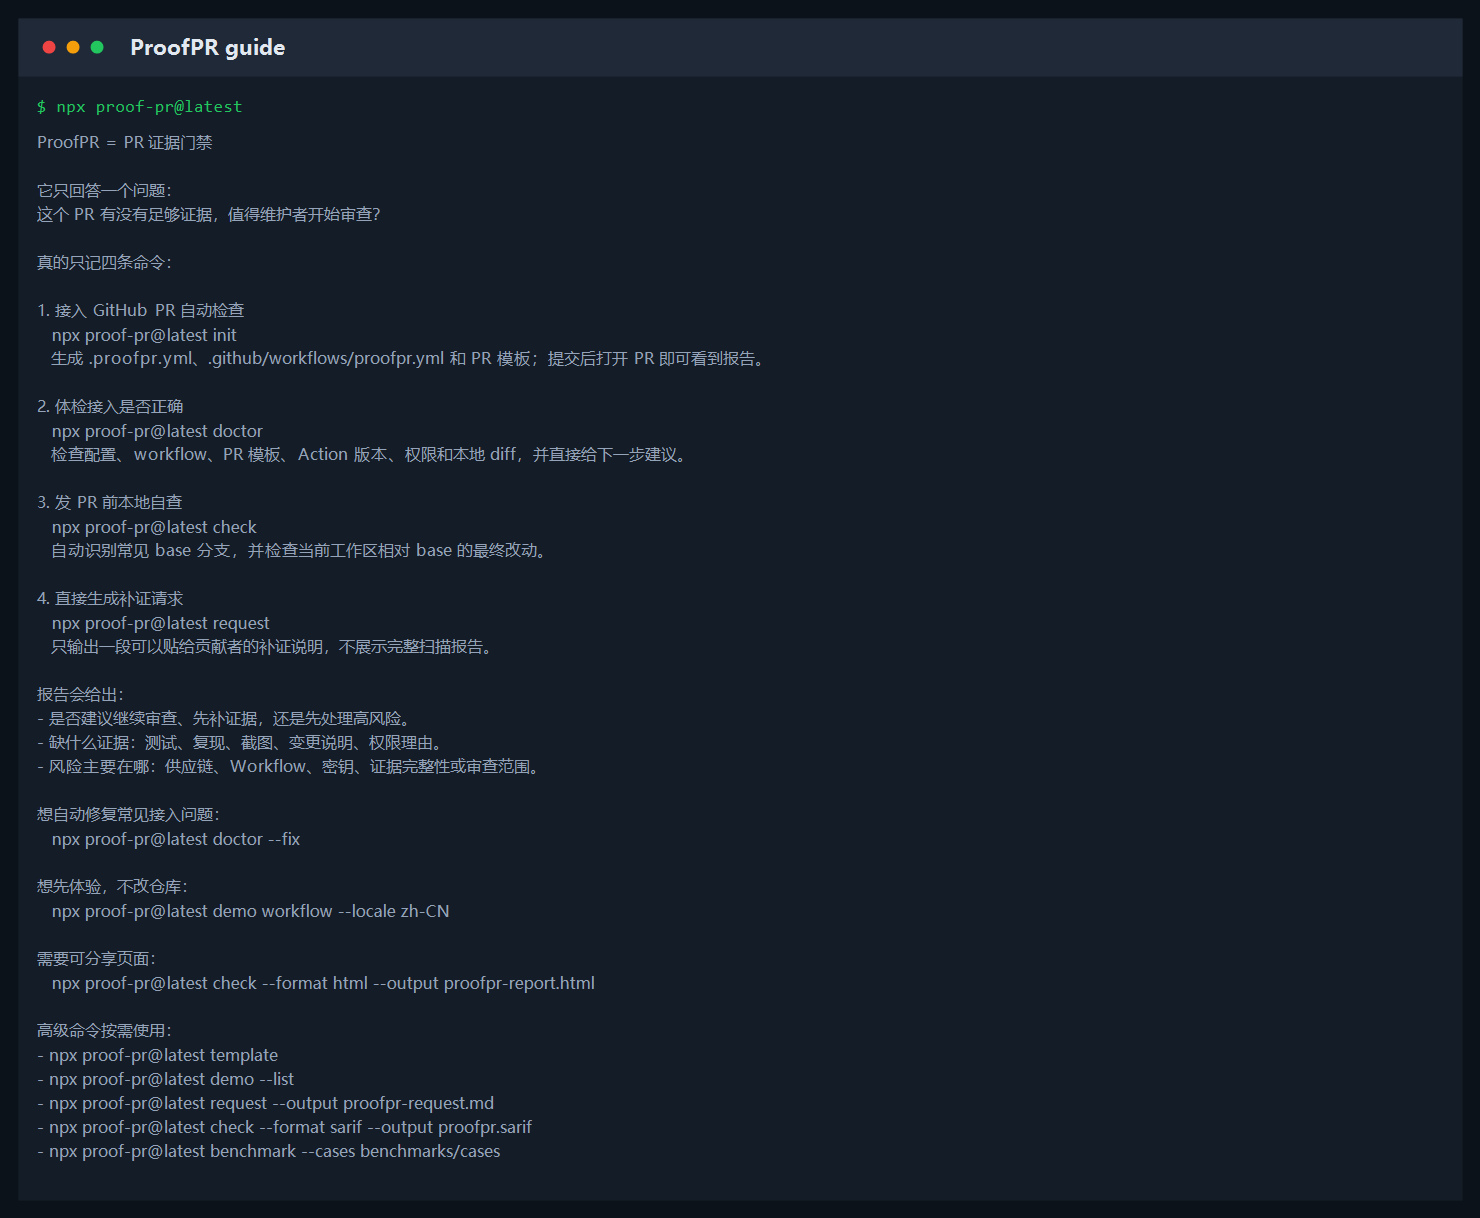
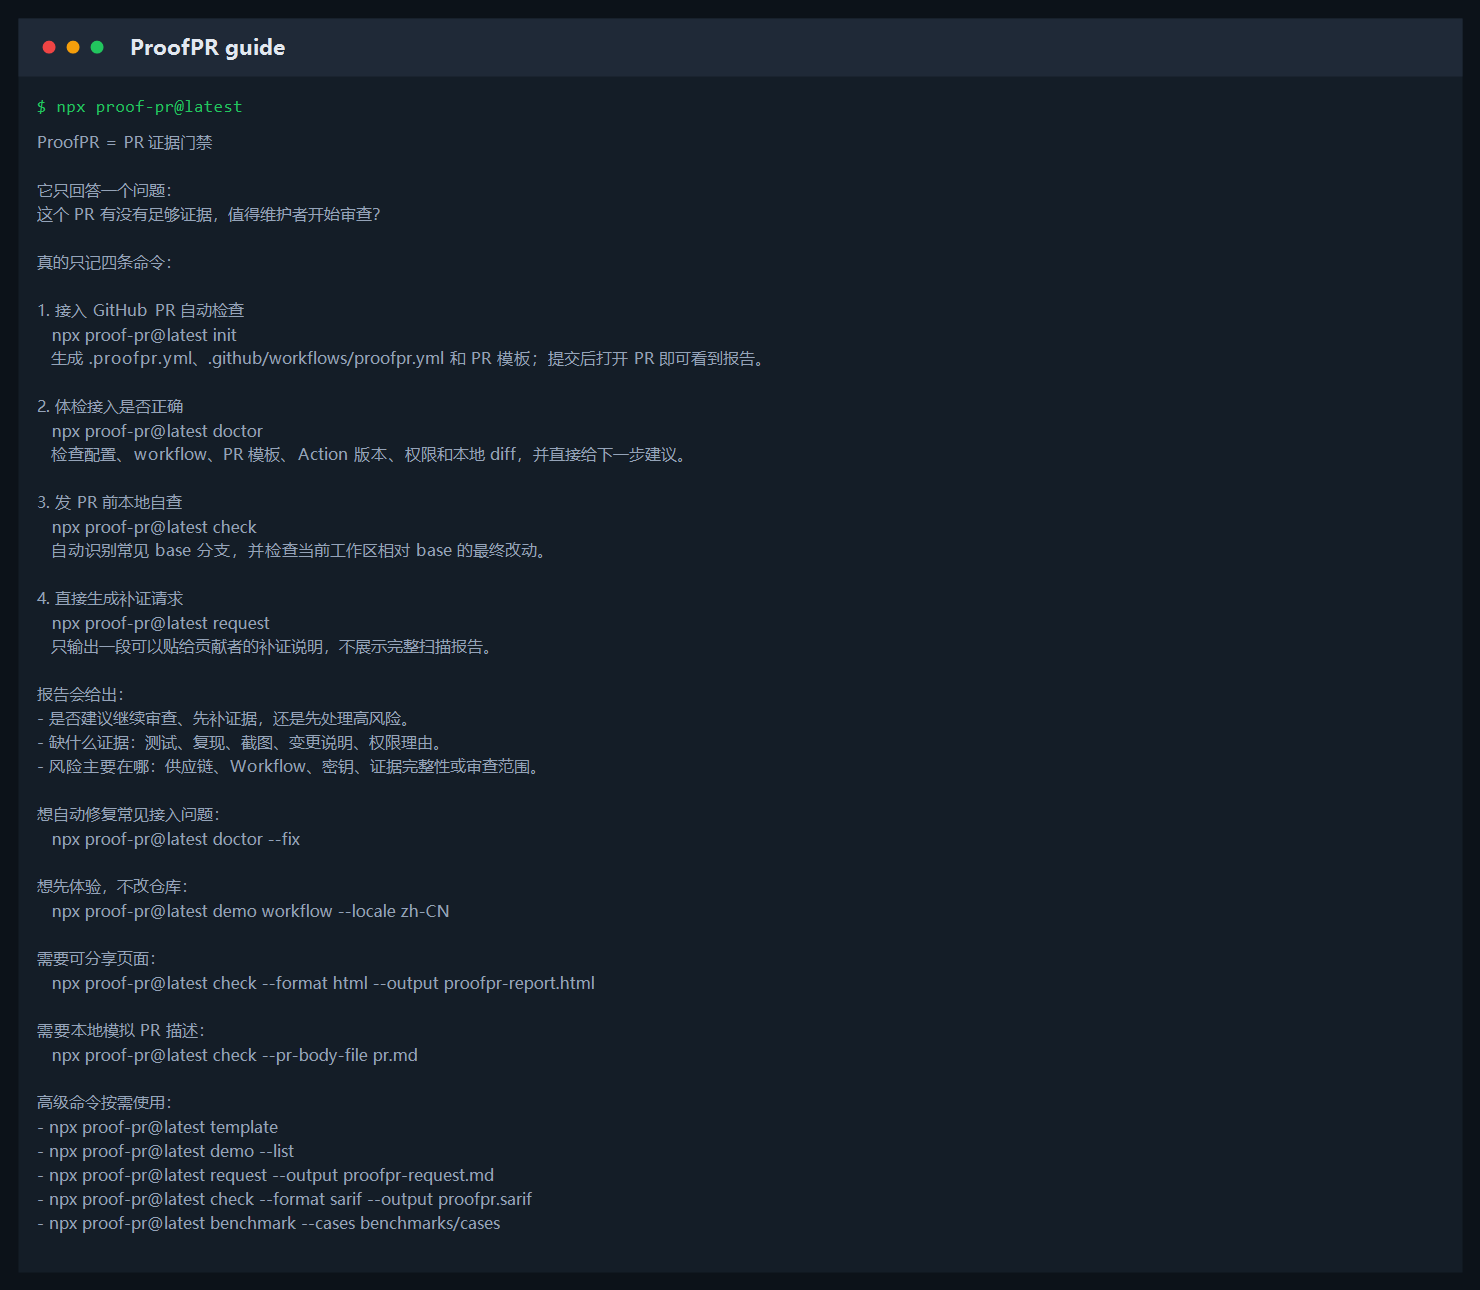
feat: surface pr body file workflow

Changed region(s): [[0.0, 0.0312, 0.5284, 0.9672]]

diff --git a/packages/cli/src/index.ts b/packages/cli/src/index.ts
@@ -23,7 +23,7 @@ import {
 } from "@proof-pr/core";
 
 const execFileAsync = promisify(execFile);
-const CLI_VERSION = "0.1.49";
+const CLI_VERSION = "0.1.50";
 
 type OutputFormat = "json" | "markdown" | "sarif" | "html";
 type FailLevel = RiskLevel | "never";
@@ -682,6 +682,9 @@ function renderGuide(): string {
 需要可分享页面：
    npx proof-pr@latest check --format html --output proofpr-report.html
 
+需要本地模拟 PR 描述：
+   npx proof-pr@latest check --pr-body-file pr.md
+
 高级命令按需使用：
 - npx proof-pr@latest template
 - npx proof-pr@latest demo --list
@@ -746,6 +749,7 @@ function renderCheckHelpFooter(): string {
 最常用：
   npx proof-pr@latest check
   npx proof-pr@latest check --format html --output proofpr-report.html
+  npx proof-pr@latest check --pr-body-file pr.md
 
 说明：
   当前没有可扫描 diff 时，check 会给短提示，不会输出完整空报告。
@@ -758,6 +762,7 @@ function renderRequestHelpFooter(): string {
 最常用：
   npx proof-pr@latest request
   npx proof-pr@latest request --full
+  npx proof-pr@latest request --pr-body-file pr.md
 
 说明：
   request 只生成可贴给贡献者的补证说明，不展示完整扫描报告。

diff --git a/docs/getting-started.md b/docs/getting-started.md
@@ -76,7 +76,7 @@ jobs:
     runs-on: ubuntu-latest
     steps:
       - uses: actions/checkout@v4
-      - uses: linsk27/proof-pr@v0.1.49
+      - uses: linsk27/proof-pr@v0.1.50
         with:
           fail-on: high
           comment: "true"
@@ -145,9 +145,9 @@ npx proof-pr@latest check
 npx proof-pr@latest request
 ```
 
-`check` 会自动选择常见主分支作为 base，并纳入已提交分支 diff、staged、unstaged 和未跟踪新文件。本地运行时通常没有 PR 标题和描述上下文，报告会提示这一点；打开 PR 后会结合 PR 标题和描述重新评估证据。需要本地模拟 PR 描述时，可以把描述写入 `pr.md` 后运行 `npx proof-pr@latest check --pr-body-file pr.md`。当前没有可扫描 diff 时，它只输出短提示和下一步建议；刚接入但还没有业务改动时不用处理。
+`check` 会自动选择常见主分支作为 base，并纳入已提交分支 diff、staged、unstaged 和未跟踪新文件。本地运行时通常没有 PR 标题和描述上下文，报告会提示这一点；打开 PR 后会结合 PR 标题和描述重新评估证据。需要本地模拟 PR 描述时，可以把描述写入 `pr.md` 后运行 `npx proof-pr@latest check --pr-body-file pr.md`，这个命令也会出现在 `check --help` 的常用复制里。当前没有可扫描 diff 时，它只输出短提示和下一步建议；刚接入但还没有业务改动时不用处理。
 
-如果第一行输出 `0.1.49`，说明你正在使用当前最新发布版。
+如果第一行输出 `0.1.50`，说明你正在使用当前最新发布版。
 
 也可以全局安装：
 

diff --git a/docs/release.md b/docs/release.md
@@ -1,6 +1,6 @@
 # 发布流程
 
-当前最新公开版本是 `0.1.49`。
+当前最新公开版本是 `0.1.50`。
 
 ## 发布前检查
 
@@ -52,8 +52,8 @@ npm 官方要求 trusted publishing 使用 npm 11.5.1+ 和 Node 22.14+；`npm tr
 确认 `pnpm release:check` 通过后：
 
 ```bash
-git tag v0.1.49
-git push origin v0.1.49
+git tag v0.1.50
+git push origin v0.1.50
 ```
 
 发布完成后需要检查：
@@ -66,9 +66,17 @@ npx proof-pr@latest --version
 当前验证结果：
 
 ```txt
-npm view proof-pr version -> 0.1.49
-npx proof-pr@latest --version -> 0.1.49
+npm view proof-pr version -> 0.1.50
+npx proof-pr@latest --version -> 0.1.50
 ```
+
+## `v0.1.50` 发布状态
+
+`v0.1.50` 是 PR 描述文件入口可发现性增强版，重点包括：
+
+- `check --help` 的常用复制命令补充 `npx proof-pr@latest check --pr-body-file pr.md`。
+- `request --help` 的常用复制命令补充 `npx proof-pr@latest request --pr-body-file pr.md`。
+- 默认参数列表仍保持简洁；README、命令文档、快速开始和 npm README 同步说明这些命令在需要本地模拟 PR 描述时使用。
 
 ## `v0.1.49` 发布状态
 
@@ -370,7 +378,7 @@ npx proof-pr@latest --version -> 0.1.49
 
 ## 版本说明
 
-`0.1.8` 已经发布到 npm，但 CLI `--version` 仍显示旧版本。`0.1.49` 继承了后续修复，并且是当前推荐使用版本。
+`0.1.8` 已经发布到 npm，但 CLI `--version` 仍显示旧版本。`0.1.50` 继承了后续修复，并且是当前推荐使用版本。
 
 ## 发布后动作
 

diff --git a/docs/commands.md b/docs/commands.md
@@ -121,7 +121,7 @@ npx proof-pr@latest doctor
 - `.github/workflows/proofpr.yml` 是否存在。
 - `.github/pull_request_template.md` 是否存在，以及是否提示验证、复现、截图或权限理由。
 - workflow 是否监听 `pull_request`。
-- workflow 是否使用当前推荐的 `linsk27/proof-pr@v0.1.49`。
+- workflow 是否使用当前推荐的 `linsk27/proof-pr@v0.1.50`。
 - 是否具备 `pull-requests: write` 和 `contents: read` 权限。
 - 是否启用了 `html-output` 和 `actions/upload-artifact`，方便下载 HTML 可视化报告。
 - 当前目录是否在 Git 仓库里，以及自动识别出的 base...HEAD diff 是否可读。
@@ -149,6 +149,8 @@ npx proof-pr@latest check
 ```bash
 npx proof-pr@latest check --pr-body-file pr.md
 ```
+
+这个命令也会出现在 `check --help` 的常用复制里。
 
 如果当前没有可扫描 diff，`check` 会输出短提示，说明这不是错误；刚接入但还没有业务改动时不需要处理，提交业务改动后再检查即可。
 
@@ -190,6 +192,8 @@ npx proof-pr@latest request
 ```bash
 npx proof-pr@latest request --pr-body-file pr.md
 ```
+
+这个命令也会出现在 `request --help` 的常用复制里。
 
 如果当前没有可扫描 diff，`request` 会输出短提示，说明这不是错误；刚接入但还没有业务改动时不需要处理，提交业务改动后再生成补证请求即可。
 

diff --git a/docs/README.md b/docs/README.md
@@ -17,8 +17,8 @@
 
 ## 当前发布
 
-- GitHub Release：[`v0.1.49`](https://github.com/linsk27/proof-pr/releases/tag/v0.1.49)
-- npm：[`proof-pr@0.1.49`](https://www.npmjs.com/package/proof-pr)
+- GitHub Release：[`v0.1.50`](https://github.com/linsk27/proof-pr/releases/tag/v0.1.50)
+- npm：[`proof-pr@0.1.50`](https://www.npmjs.com/package/proof-pr)
 - 核心能力：判断 PR 是否值得审查、指出缺失证据、标出高风险改动区域，并生成维护者行动清单。
 - 辅助能力：HTML 报告、GitHub annotations、SARIF、benchmark、真实案例库和 npm Trusted Publishing 发布流程。
 
@@ -29,7 +29,7 @@ npm view proof-pr version
 npx proof-pr@latest --version
 ```
 
-当前都应输出 `0.1.49`。
+当前都应输出 `0.1.50`。
 
 不知道怎么开始时：
 

diff --git a/docs/roadmap.md b/docs/roadmap.md
@@ -31,7 +31,7 @@ ProofPR 的长期定位不是“又一个代码扫描器”，而是 **AI 时代
    代码侧材料已准备好，下一步需要仓库所有者在 GitHub 网页上确认发布。
 
 2. 发布链路稳定性
-   Trusted Publisher 已配置并通过 `v0.1.21` 到 `v0.1.49` 验证。后续重点是保持 release workflow 简单可审计，避免回退到本地 token 发布。
+   Trusted Publisher 已配置并通过 `v0.1.21` 到 `v0.1.50` 验证。后续重点是保持 release workflow 简单可审计，避免回退到本地 token 发布。
 
 3. 真实截图刷新
    用供应链增强规则重新跑一个 demo PR，补充新版依赖风险、HTML 报告和 benchmark 效果图。

diff --git a/docs/zero-to-one.md b/docs/zero-to-one.md
@@ -149,7 +149,7 @@ npx proof-pr@latest check
 
 `check` 会自动选择常见主分支作为 base，并纳入已提交分支 diff、staged、unstaged 和未跟踪新文件。当前没有可扫描 diff 时，它只输出短提示和下一步建议。
 
-第一行当前应输出 `0.1.49`，用于确认 npm latest 已经安装正确。
+第一行当前应输出 `0.1.50`，用于确认 npm latest 已经安装正确。
 
 扫描内置案例：
 
@@ -201,7 +201,7 @@ permissions:
 
 steps:
   - uses: actions/checkout@v4
-  - uses: linsk27/proof-pr@v0.1.49
+  - uses: linsk27/proof-pr@v0.1.50
     with:
       fail-on: high
       comment: "true"

diff --git a/docs/sarif-code-scanning.md b/docs/sarif-code-scanning.md
@@ -59,7 +59,7 @@ jobs:
     runs-on: ubuntu-latest
     steps:
       - uses: actions/checkout@v4
-      - uses: linsk27/proof-pr@v0.1.49
+      - uses: linsk27/proof-pr@v0.1.50
         with:
           fail-on: high
           comment: "true"
